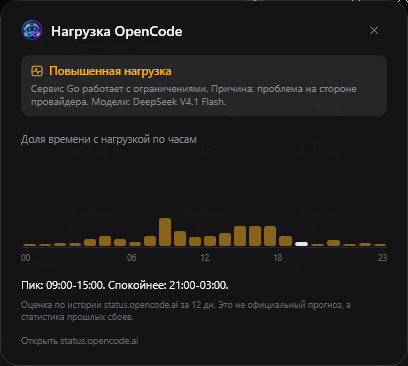
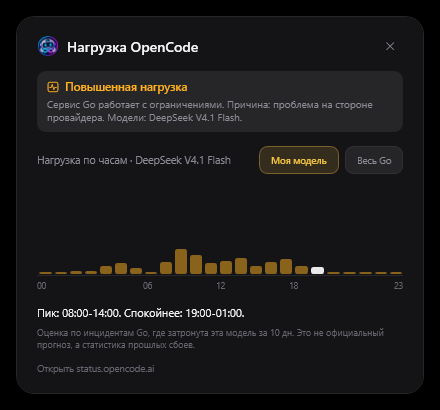
Build load forecast from the most used model

diff --git a/LoadWindow.xaml b/LoadWindow.xaml
@@ -96,12 +96,36 @@
                 </StackPanel>
             </Border>
 
-            <!-- Chart title -->
-            <TextBlock Grid.Row="2"
-                       Text="Доля времени с нагрузкой по часам"
-                       FontSize="10.5"
-                       Foreground="{StaticResource MutedBrush}"
-                       Margin="0,16,0,0" />
+            <!-- Chart title and scope -->
+            <Grid Grid.Row="2" Margin="0,14,0,0">
+                <TextBlock x:Name="ChartCaption"
+                           Text="Нагрузка по часам"
+                           FontSize="10.5"
+                           Foreground="{StaticResource MutedBrush}"
+                           VerticalAlignment="Center"
+                           TextTrimming="CharacterEllipsis"
+                           Margin="0,0,150,0" />
+                <StackPanel x:Name="ScopePanel"
+                            Orientation="Horizontal"
+                            HorizontalAlignment="Right"
+                            VerticalAlignment="Center">
+                    <RadioButton x:Name="ScopeModel"
+                                 Style="{StaticResource PillRadio}"
+                                 GroupName="Scope"
+                                 Content="Моя модель"
+                                 Height="28"
+                                 FontSize="9.5"
+                                 Checked="Scope_Changed" />
+                    <RadioButton x:Name="ScopeGo"
+                                 Style="{StaticResource PillRadio}"
+                                 GroupName="Scope"
+                                 Content="Весь Go"
+                                 Height="28"
+                                 FontSize="9.5"
+                                 Margin="6,0,0,0"
+                                 Checked="Scope_Changed" />
+                </StackPanel>
+            </Grid>
 
             <!-- Chart -->
             <Border Grid.Row="3"

diff --git a/LoadWindow.xaml.cs b/LoadWindow.xaml.cs
@@ -12,13 +12,41 @@ public partial class LoadWindow : Window
 {
     private const double ChartHeight = 92;
 
-    public LoadWindow(ServiceStatusResponse status, LoadForecast forecast)
+    private readonly LoadForecast _overall;
+    private readonly LoadForecast? _model;
+    private readonly string? _modelName;
+
+    public LoadWindow(
+        ServiceStatusResponse status,
+        LoadForecast overall,
+        LoadForecast? model,
+        string? modelName)
     {
+        _overall = overall;
+        _model = model;
+        _modelName = modelName;
+
         InitializeComponent();
 
         ApplyState(status);
-        BuildChart(forecast);
-        ApplyForecast(forecast);
+
+        if (_model is null || string.IsNullOrWhiteSpace(_modelName))
+        {
+            ScopePanel.Visibility = Visibility.Collapsed;
+            ShowForecast(_overall, "все модели Go", isModel: false);
+        }
+        else
+        {
+            ScopeModel.IsChecked = true;
+        }
+    }
+
+    private void Scope_Changed(object sender, RoutedEventArgs e)
+    {
+        if (ScopeModel.IsChecked == true && _model is not null)
+            ShowForecast(_model, _modelName ?? "моя модель", isModel: true);
+        else
+            ShowForecast(_overall, "все модели Go", isModel: false);
     }
 
     private void ApplyState(ServiceStatusResponse status)
@@ -70,8 +98,30 @@ public partial class LoadWindow : Window
         StateDetail.Text = detail;
     }
 
+    private void ShowForecast(LoadForecast forecast, string scope, bool isModel)
+    {
+        ChartCaption.Text = "Нагрузка по часам · " + scope;
+
+        BuildChart(forecast);
+
+        SummaryText.Text = forecast.HasPattern
+            ? $"Пик: {forecast.PeakRange}. Спокойнее: {forecast.QuietRange}."
+            : "Выраженного суточного пика нет: нагрузка появляется в разное время.";
+
+        var scopeNote = isModel
+            ? "Оценка по инцидентам Go, где затронута эта модель"
+            : "Оценка по всем инцидентам Go";
+
+        NoteText.Text =
+            $"{scopeNote} за {forecast.Days} дн. " +
+            "Это не официальный прогноз, а статистика прошлых сбоев.";
+    }
+
     private void BuildChart(LoadForecast forecast)
     {
+        ChartGrid.Children.Clear();
+        ChartGrid.ColumnDefinitions.Clear();
+
         for (var hour = 0; hour < 24; hour++)
             ChartGrid.ColumnDefinitions.Add(new ColumnDefinition());
 
@@ -100,17 +150,6 @@ public partial class LoadWindow : Window
             ChartGrid.Children.Add(host);
             Grid.SetColumn(host, hour);
         }
-    }
-
-    private void ApplyForecast(LoadForecast forecast)
-    {
-        SummaryText.Text = forecast.HasPattern
-            ? $"Пик: {forecast.PeakRange}. Спокойнее: {forecast.QuietRange}."
-            : "Выраженного суточного пика нет: нагрузка появляется в разное время.";
-
-        NoteText.Text =
-            $"Оценка по истории status.opencode.ai за {forecast.Days} дн. " +
-            "Это не официальный прогноз, а статистика прошлых сбоев.";
     }
 
     private static string ReasonText(string? reason)

diff --git a/MainWindow.xaml.cs b/MainWindow.xaml.cs
@@ -77,6 +77,8 @@ public partial class MainWindow : Window
     private string? _loadSummary;
     private ServiceStatusResponse? _lastServiceStatus;
     private LoadForecast? _lastForecast;
+    private LoadForecast? _modelForecast;
+    private string? _focusModel;
     private LoadWindow? _loadWindow;
     private ErrorAction _errorAction = ErrorAction.Retry;
     private int _refreshGeneration;
@@ -247,7 +249,7 @@ public partial class MainWindow : Window
                 return;
 
             if (serviceStatus is not null)
-                ApplyServiceStatus(serviceStatus);
+                ApplyServiceStatus(serviceStatus, activity);
 
             var snapshot = new GoSnapshot
             {
@@ -428,10 +430,19 @@ public partial class MainWindow : Window
         TaskbarCard.ToolTip = tooltip;
     }
 
-    private void ApplyServiceStatus(ServiceStatusResponse status)
+    private void ApplyServiceStatus(ServiceStatusResponse status, GoActivityResponse? activity)
     {
         _lastServiceStatus = status;
+        _focusModel = activity?.Models?
+            .Where(m => !string.IsNullOrWhiteSpace(m.Model))
+            .OrderByDescending(m => m.TotalRequests)
+            .Select(m => m.Model)
+            .FirstOrDefault();
+
         _lastForecast = LoadForecast.Build(status, DateTimeOffset.Now);
+        _modelForecast = _focusModel is null
+            ? null
+            : LoadForecast.Build(status, DateTimeOffset.Now, modelId: _focusModel);
 
         var go = status.Components.FirstOrDefault(c =>
             string.Equals(c.Service, "go", StringComparison.OrdinalIgnoreCase));
@@ -504,12 +515,17 @@ public partial class MainWindow : Window
 
     private string? ForecastText()
     {
-        if (_lastForecast is not { } forecast)
+        var forecast = _modelForecast ?? _lastForecast;
+        if (forecast is null)
             return null;
 
+        var prefix = _modelForecast is not null && _focusModel is not null
+            ? FriendlyModel(_focusModel) + ": "
+            : "";
+
         return forecast.HasPattern
-            ? $"Пик {forecast.PeakRange}, спокойнее {forecast.QuietRange}"
-            : "выраженного пика по часам нет";
+            ? $"{prefix}пик {forecast.PeakRange}, спокойнее {forecast.QuietRange}"
+            : $"{prefix}выраженного пика по часам нет";
     }
 
     private void ApplyLoadState(LoadLevel level, string? tooltip)
@@ -1444,7 +1460,11 @@ public partial class MainWindow : Window
             return;
         }
 
-        _loadWindow = new LoadWindow(_lastServiceStatus, _lastForecast)
+        var modelName = string.IsNullOrWhiteSpace(_focusModel)
+            ? null
+            : FriendlyModel(_focusModel);
+
+        _loadWindow = new LoadWindow(_lastServiceStatus, _lastForecast, _modelForecast, modelName)
         {
             Owner = this,
         };

diff --git a/Services/LoadForecast.cs b/Services/LoadForecast.cs
@@ -32,13 +32,16 @@ public sealed class LoadForecast
         ServiceStatusResponse? status,
         DateTimeOffset now,
         int days = 14,
-        int windowHours = 6)
+        int windowHours = 6,
+        string? modelId = null)
     {
         if (status?.Incidents is not { Count: > 0 })
             return null;
 
         var go = status.Incidents
             .Where(i => string.Equals(i.Service, "go", StringComparison.OrdinalIgnoreCase))
+            .Where(i => modelId is null || i.Models.Any(m =>
+                string.Equals(m.Id, modelId, StringComparison.OrdinalIgnoreCase)))
             .ToArray();
 
         if (go.Length == 0)

diff --git a/README.md b/README.md
@@ -143,6 +143,11 @@ OpenCode Console -> Account -> Personal API keys
 в каждый час за последние дни. Под графиком выводится сводка вида
 `Пик: 09:00-15:00. Спокойнее: 21:00-03:00.` Белым столбиком отмечен текущий час.
 
+Прогноз по умолчанию строится по модели, которая чаще всего использовалась сегодня:
+виджет берёт её из дневной статистики активности. Это не «модель, выбранная прямо сейчас»,
+а самая используемая за день, обычно она и есть текущая. Переключатель
+«Моя модель / Весь Go» меняет график: одна модель или все инциденты Go.
+
 ![Окно прогноза нагрузки](docs/preview-load-forecast.png)
 
 Это не глобальная «загруженность сервера», а официальный статус: если OpenCode сообщает
